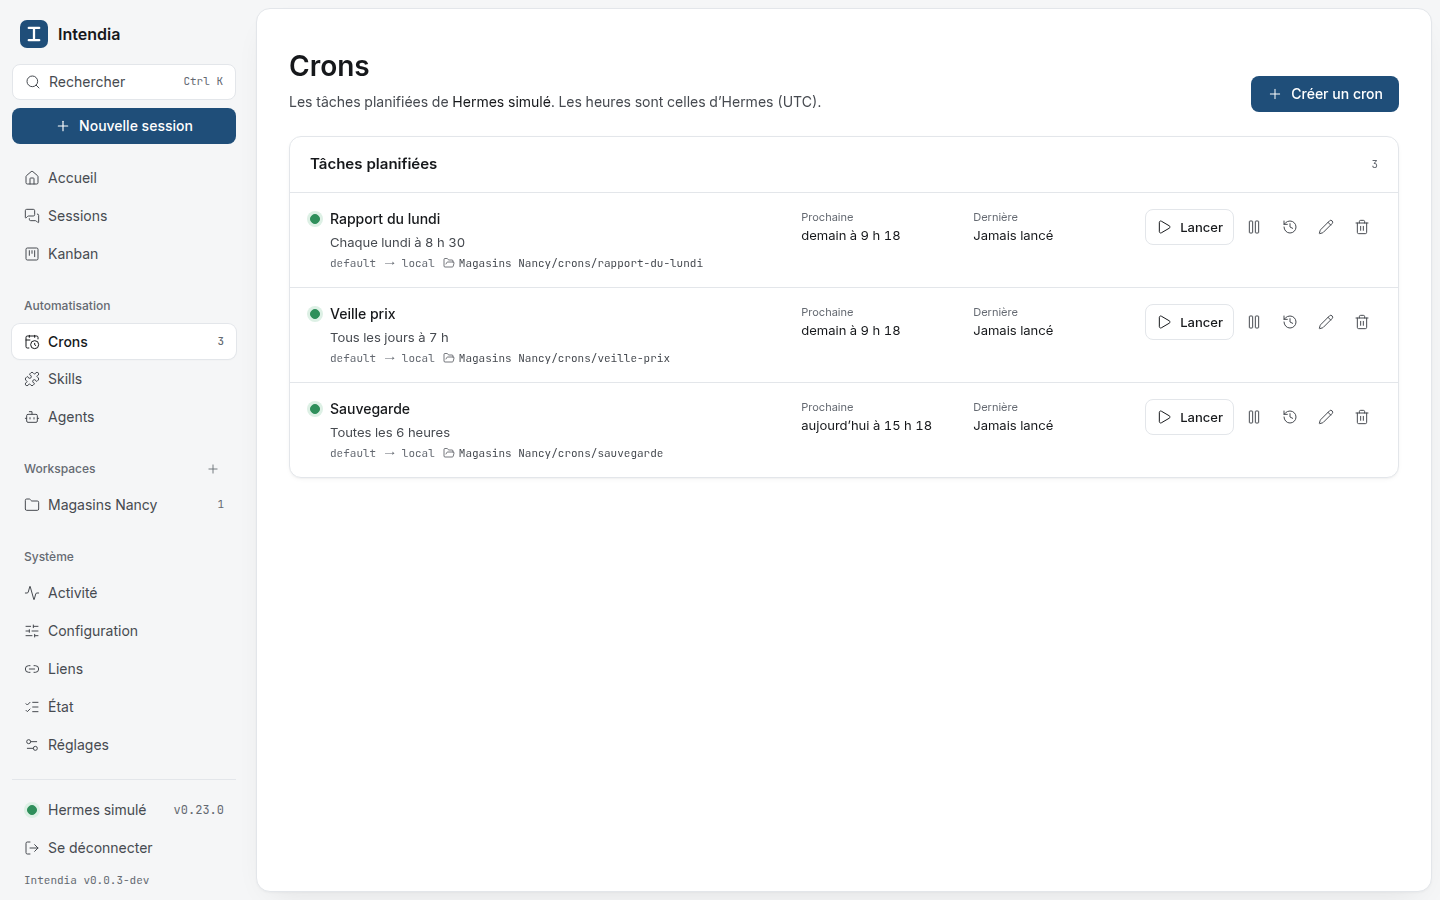
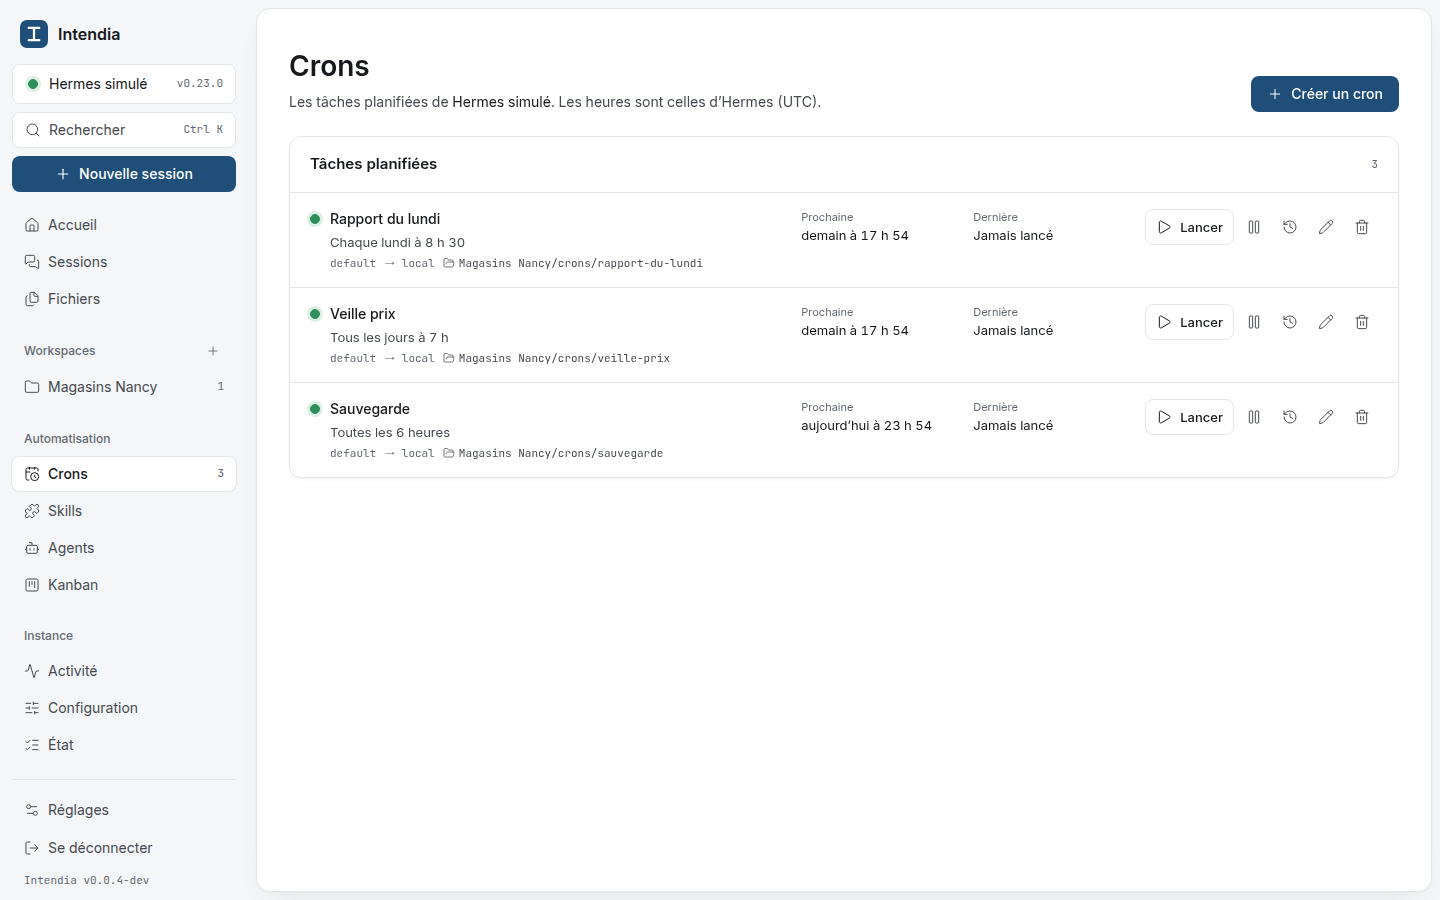
chore: v0.0.4

diff --git a/README.md b/README.md
@@ -26,8 +26,8 @@ on a reference Hermes 0.23.0, but Intendia has not been used on a live installat
 |---|---|
 | Base | Auth, instances, compatibility engine and State screen, Docker image |
 | Work | Workspaces (real folders), sessions, streamed chat with approvals and sub-agents |
-| Files | File explorer, previews, share links, `share_file` MCP tool for the agent |
-| Console | Crons, skills (hub with security scan), Hermes settings (form, YAML, history), agents, activity, kanban |
+| Files | File explorer per workspace and per instance (read-only), previews, share links, `share_file` MCP tool for the agent |
+| Console | Crons, skills (hub with security scan), Hermes settings (form, YAML, history), model providers (subscriptions, API keys, custom endpoints, Anthropic setup-token), agents, activity, kanban |
 
 | | |
 |---|---|
